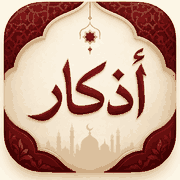
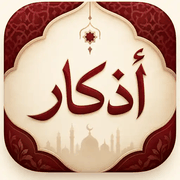
توحيد أيقونة التطبيق على تصميم «أذكار» (#1)
كانت الأيقونة مختلفة حسب المكان: تاب المتصفح وشاشة الآيفون بيستخدموا
تصميم «أذكار» المزخرف، لكن المانيفست لسه بيشاور على ملفات PNG القديمة
بتصميم الهلال والنجمة — فاللي بيثبّت التطبيق على أندرويد كان يشوف
أيقونة تانية خالص.

- إعادة توليد icon-192.png و icon-512.png و apple-touch-icon.png من
  الرسمة الأصلية icon-512.webp
- إضافة icon-maskable-512 (png + webp) بهامش آمن 76% للقص الدائري
- المانيفست: webp الأول وPNG كـ fallback وmaskable منفصل
- حذف icon.svg (تصميم الهلال القديم، مش مستخدم)
- إضافة fallback PNG للـ favicon في index.html
- sw.js: رفع الكاش لـ azkaar-v15 وتعديل قائمة الـ precache

diff --git a/index.html b/index.html
@@ -10,7 +10,8 @@
 <meta name="description" content="نسخة رقمية تفاعلية لأذكار طرفي النهار — صدقة جارية عن والدي رحمه الله.">
 <link rel="canonical" href="https://tarekabuozaid.github.io/azkaar/">
 <link rel="manifest" href="manifest.webmanifest">
-<link rel="icon" type="image/webp" href="icon-192.webp">
+<link rel="icon" type="image/webp" sizes="192x192" href="icon-192.webp">
+<link rel="icon" type="image/png" sizes="192x192" href="icon-192.png">
 <link rel="apple-touch-icon" sizes="180x180" href="apple-touch-icon.png">
 <meta property="og:locale" content="ar_AR">
 <meta property="og:type" content="website">

diff --git a/sw.js b/sw.js
@@ -1,5 +1,5 @@
-const CACHE='azkaar-v14';
-const CORE=['./','./index.html','./manifest.webmanifest','./icon-192.png','./icon-512.png','./apple-touch-icon.png','./qr.png'];
+const CACHE='azkaar-v15';
+const CORE=['./','./index.html','./manifest.webmanifest','./icon-192.webp','./icon-192.png','./apple-touch-icon.png','./qr.png'];
 self.addEventListener('install',e=>{e.waitUntil(caches.open(CACHE).then(c=>c.addAll(CORE)));self.skipWaiting();});
 self.addEventListener('activate',e=>{e.waitUntil(caches.keys().then(keys=>Promise.all(keys.filter(k=>k!==CACHE).map(k=>caches.delete(k)))));self.clients.claim();});
 self.addEventListener('fetch',e=>{
